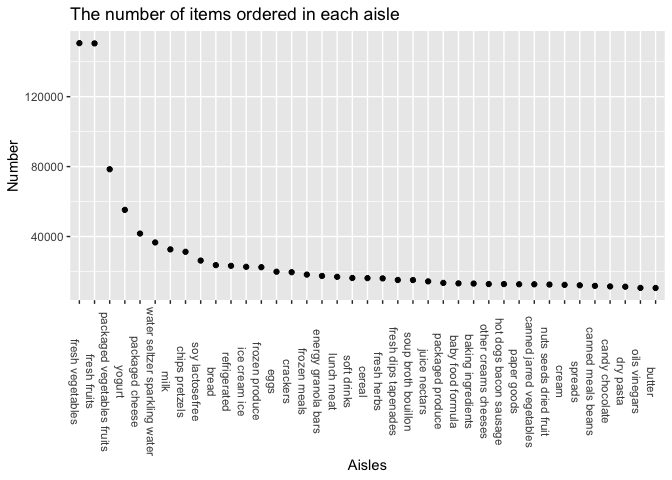
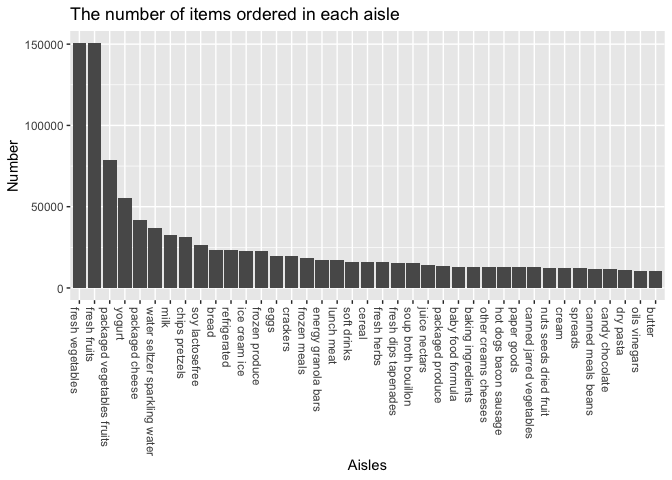
add data description for problem 1 and polish plots

Changed region(s): [[0.0312, 0.0625, 1.0, 0.9375]]

diff --git a/p8105_hw3_kz2411.md b/p8105_hw3_kz2411.md
@@ -10,6 +10,48 @@ Keming Zhang
 data("instacart")
 ```
 
+``` r
+instacart
+```
+
+    ## # A tibble: 1,384,617 × 15
+    ##    order_id product_id add_to_cart_order reordered user_id eval_set order_number
+    ##       <int>      <int>             <int>     <int>   <int> <chr>           <int>
+    ##  1        1      49302                 1         1  112108 train               4
+    ##  2        1      11109                 2         1  112108 train               4
+    ##  3        1      10246                 3         0  112108 train               4
+    ##  4        1      49683                 4         0  112108 train               4
+    ##  5        1      43633                 5         1  112108 train               4
+    ##  6        1      13176                 6         0  112108 train               4
+    ##  7        1      47209                 7         0  112108 train               4
+    ##  8        1      22035                 8         1  112108 train               4
+    ##  9       36      39612                 1         0   79431 train              23
+    ## 10       36      19660                 2         1   79431 train              23
+    ## # … with 1,384,607 more rows, and 8 more variables: order_dow <int>,
+    ## #   order_hour_of_day <int>, days_since_prior_order <int>, product_name <chr>,
+    ## #   aisle_id <int>, department_id <int>, aisle <chr>, department <chr>
+
+### Dataset Description
+
+There are 1384617 observations and 15 variables in the dataset. Key
+variables are order\_dow (integer) which means the day of the week on
+which the order was placed, order\_hour\_of\_day (integer) which means
+the hour of the day on which the order was placed and aisle (character)
+which means the name of the aisle and so on. The examples is as below.
+
+``` r
+#example of the dataset
+head(instacart,2) %>% knitr::kable(digits = 1)
+```
+
+| order\_id | product\_id | add\_to\_cart\_order | reordered | user\_id | eval\_set | order\_number | order\_dow | order\_hour\_of\_day | days\_since\_prior\_order | product\_name                                 | aisle\_id | department\_id | aisle                | department |
+|----------:|------------:|---------------------:|----------:|---------:|:----------|--------------:|-----------:|---------------------:|--------------------------:|:----------------------------------------------|----------:|---------------:|:---------------------|:-----------|
+|         1 |       49302 |                    1 |         1 |   112108 | train     |             4 |          4 |                   10 |                         9 | Bulgarian Yogurt                              |       120 |             16 | yogurt               | dairy eggs |
+|         1 |       11109 |                    2 |         1 |   112108 | train     |             4 |          4 |                   10 |                         9 | Organic 4% Milk Fat Whole Milk Cottage Cheese |       108 |             16 | other creams cheeses | dairy eggs |
+
+This customer ordered Bulgarian Yogurt and Organic 4% Milk Fat Whole
+Milk Cottage Cheese from dairy eggs department at 10:00 on Thursday.
+
 ### a)
 
 ``` r
@@ -54,13 +96,13 @@ group_by_aisles %>%
     aisle = as_factor(aisle)
   ) %>%
   ggplot(aes(x = aisle, y = n_obs)) +
-  geom_point() + 
+  geom_bar(stat = "identity") + 
   labs(
     title = "The number of items ordered in each aisle",
     x = "Aisles",
     y = "Number"
   ) +
-  theme(axis.text.x = element_text(angle = 270))
+  theme(axis.text.x = element_text(angle = 270, hjust = 0))
 ```
 
 ![](p8105_hw3_kz2411_files/figure-gfm/create%20a%20plot-1.png)<!-- -->
@@ -439,7 +481,6 @@ exceptions.
 ``` r
 # draw a plot
 ggplot(accelerometer_data,aes(x = minute / 60, y = activity,color = day)) +
-  geom_point() +
   geom_line() +
   #convert minute to hour
   scale_x_continuous(
